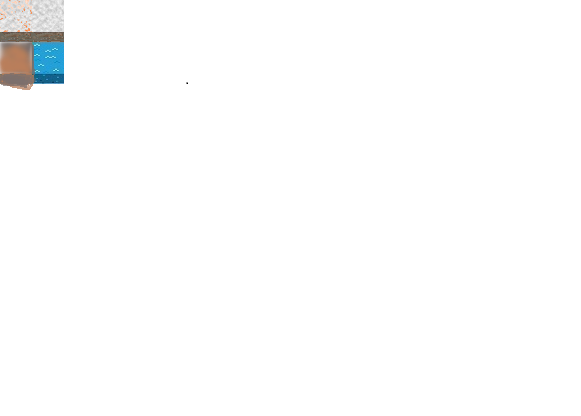
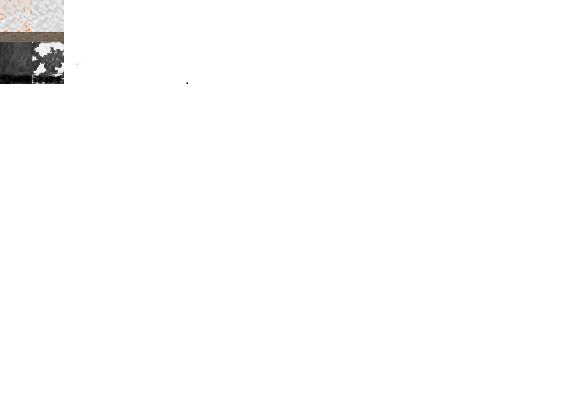
Renamed stuff

Changed region(s): [[0.0, 0.0938, 0.1239, 0.2188]]

diff --git a/Mars Raiders/Mars Raiders/Mars Raiders/Classes/Game1.cs b/Mars Raiders/Mars Raiders/Mars Raiders/Classes/Game1.cs
@@ -40,14 +40,14 @@ namespace Mars_Raiders
             graphics.IsFullScreen = false; //fullscreen mode
             graphics.ApplyChanges(); //sets graphics using above settings
             IsMouseVisible = true; //shows mouse in window
-            this.Window.Title = "Mars Raiders"; //window title
+            this.Window.Title = "Europa"; //window title
         }
         
         protected override void Initialize()
         {
             base.Initialize();
-           // appdata = new CommonApplicationData("NeonGreenStudios", "MarsRaiders");
-           // Process.Start(appdata.ApplicationFolderPath);
+            appdata = new CommonApplicationData("NeonGreenStudios", "MarsRaiders");
+            Process.Start(appdata.ApplicationFolderPath);
             IM.AddAction("Pause");
             IM["Pause"].Add(Keys.Escape);
             IM.AddAction("Raise");
@@ -129,7 +129,7 @@ namespace Mars_Raiders
 
         protected override void Draw(GameTime gameTime)
         {
-            GraphicsDevice.Clear(Color.Orange);
+            GraphicsDevice.Clear(Color.GhostWhite);
             spriteBatch.Begin(SpriteSortMode.Immediate, BlendState.AlphaBlend,SamplerState.PointClamp,DepthStencilState.Default, RasterizerState.CullNone);
         
             switch (ProgramPosition)

diff --git a/Mars Raiders/Mars Raiders/Mars Raiders/Classes/Level/Level.cs b/Mars Raiders/Mars Raiders/Mars Raiders/Classes/Level/Level.cs
@@ -31,9 +31,23 @@ namespace Mars_Raiders
             {
                 for (int x = 0; x < (int)MapDimensions.X; x++)
                 {
-                    Map[x,y] = new TileIce();
+                    Map[x,y] = new TileIceRock();
                 }
             }
+            for (int y = 0; y < (int)MapDimensions.Y; y++)
+            {                   
+                for (double x = 0; x < (int)MapDimensions.X; x++)
+                {
+                    if (y < (Math.Cos((x / 20) - 10)) * 100)
+                    {
+                        Map[(int)Math.Round(x), y] = new TileStone();
+                    }
+                    
+                }
+            }
+                
+                
+            
 
             for (int x = 1; x < 9; x++)
             {
@@ -123,7 +137,7 @@ namespace Mars_Raiders
                         Map[X, Y] = new TileStone();
                         break;
                     case "3":
-                        Map[X, Y] = new TileRocky();
+                        Map[X, Y] = new TileIceRock();
                         break;
                 }
                 Map[X, Y].Raised = Convert.ToBoolean(Data[1]);

diff --git a/Mars Raiders/Mars Raiders/Mars Raiders/Classes/Entity/EntityCursor.cs b/Mars Raiders/Mars Raiders/Mars Raiders/Classes/Entity/EntityCursor.cs
@@ -57,7 +57,7 @@ namespace Mars_Raiders
                 }
                 if (Game1.IM["PlaceBlock2"].IsTapped)
                 {
-                    level.Map[x, y] = new TileRocky();
+                    level.Map[x, y] = new TileIceRock();
                 }
                 if (Game1.IM["PlaceBlock3"].IsTapped)
                 {
@@ -69,11 +69,11 @@ namespace Mars_Raiders
                 }
                 if (Game1.IM["Save"].IsTapped)
                 {
-                   // level.save();    Just so it will run in school
+                    level.save();  
                 }
                 if (Game1.IM["Load"].IsTapped)
                 {
-                   // level.load();
+                    level.load();
                 }
 
             }

diff --git a/Mars Raiders/Mars Raiders/Mars Raiders/Classes/Level/TileIceRock.cs b/Mars Raiders/Mars Raiders/Mars Raiders/Classes/Level/TileIceRock.cs
@@ -13,11 +13,11 @@ using Microsoft.Xna.Framework.Storage;
 
 namespace Mars_Raiders
 {
-    public class TileRocky : Tile
+    public class TileIceRock : Tile
     {
 
 
-        public TileRocky() : base()
+        public TileIceRock() : base()
         {
 
         }
